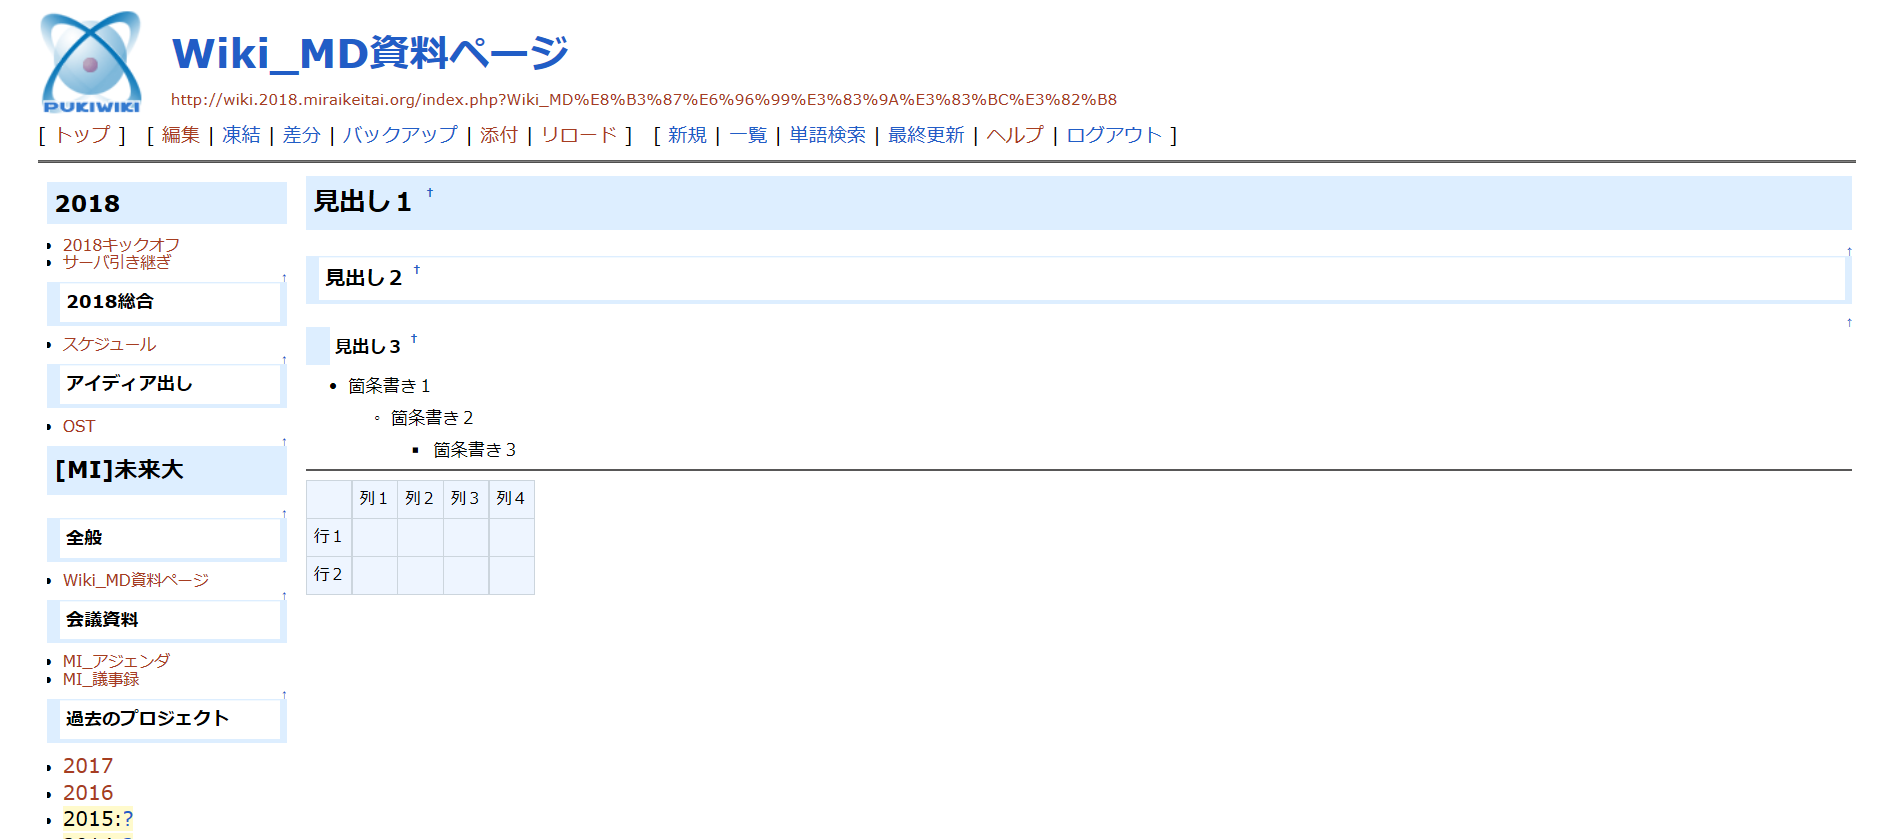
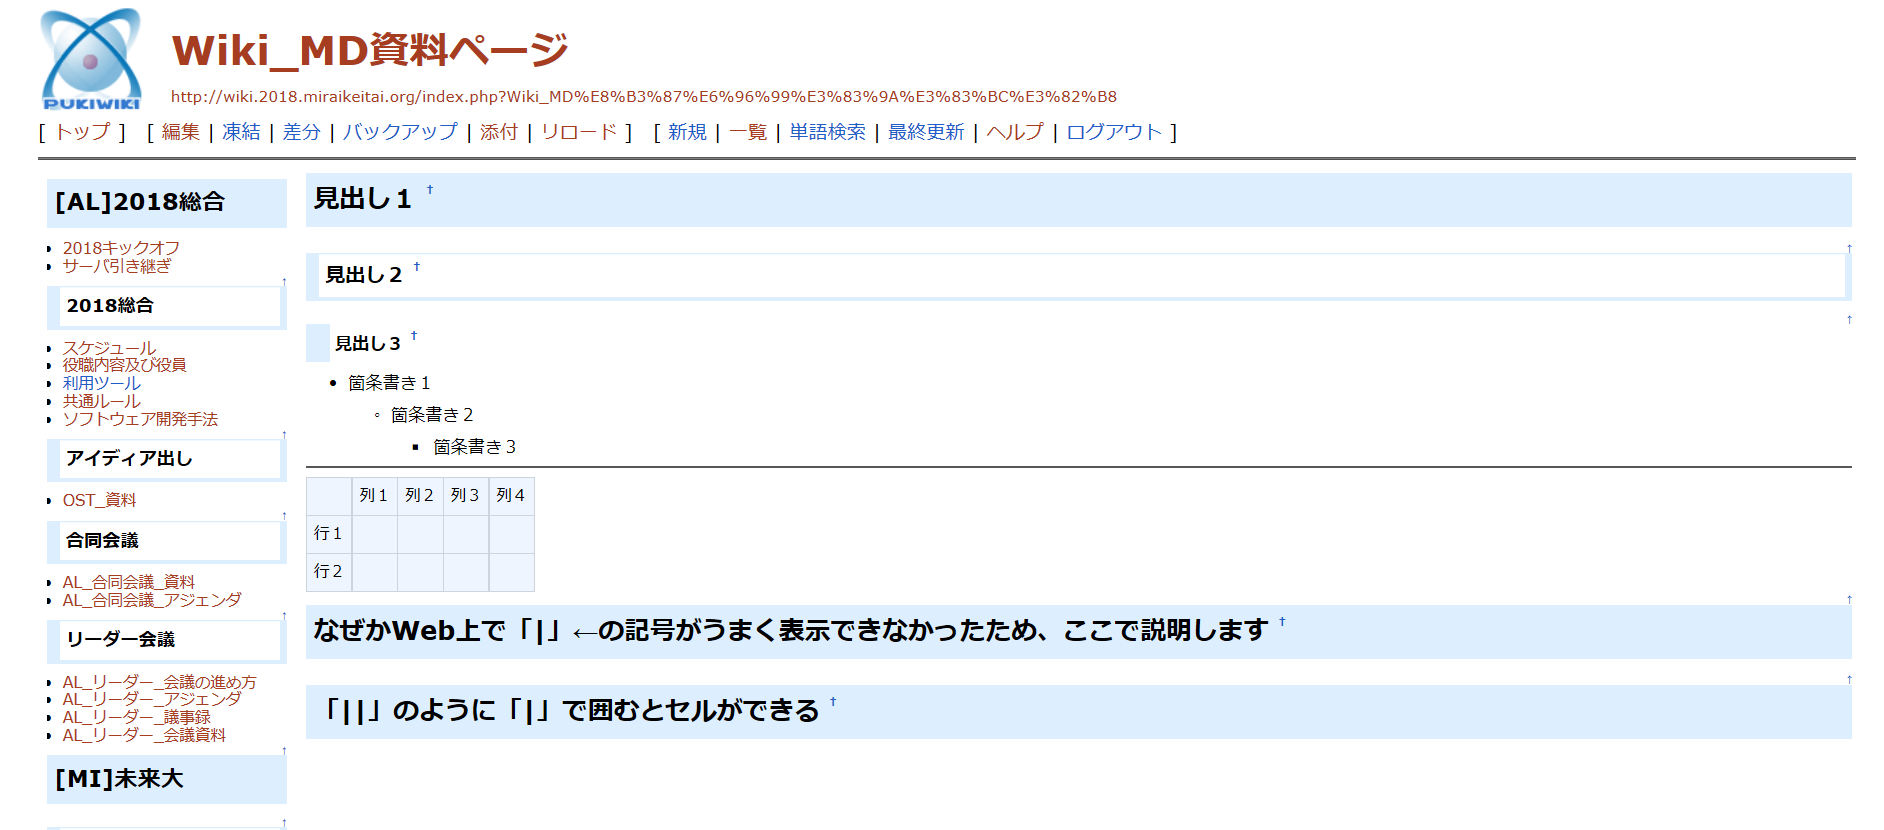
change img4.png

Changed region(s): [[0.0, 0.0, 0.9878, 1.0], [0.9569, 0.3012, 0.9878, 0.3614]]

diff --git a/index.md b/index.md
@@ -19,7 +19,7 @@
   ![img](img3.png)
 
 #### 1-3.表の作り方
-* 「|」で囲むことでセルができる
+* 諸事情により、画像の方で使い方が説明してあります
 
   ![img](img4.png)
 #### 1-4.ファイルのアップロード
